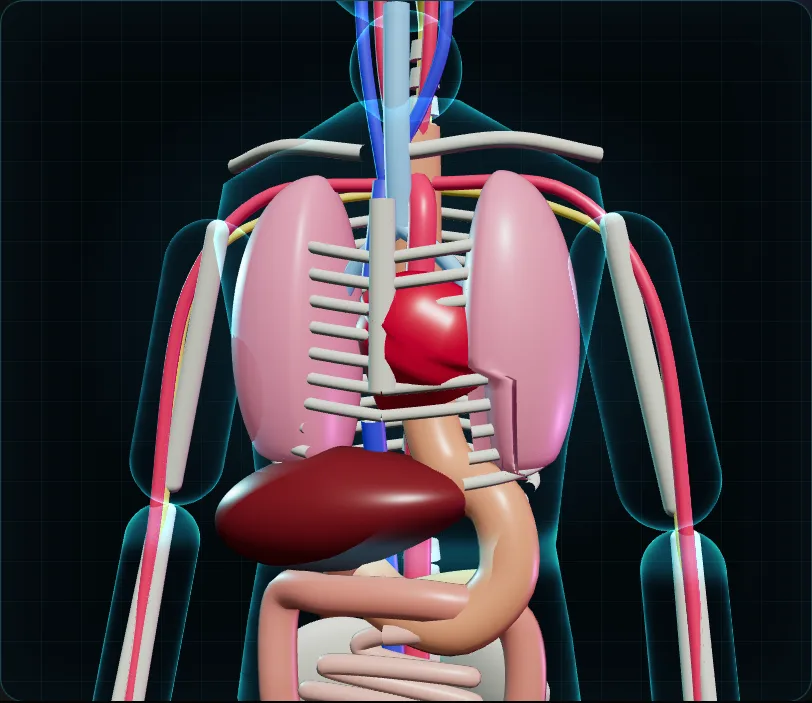
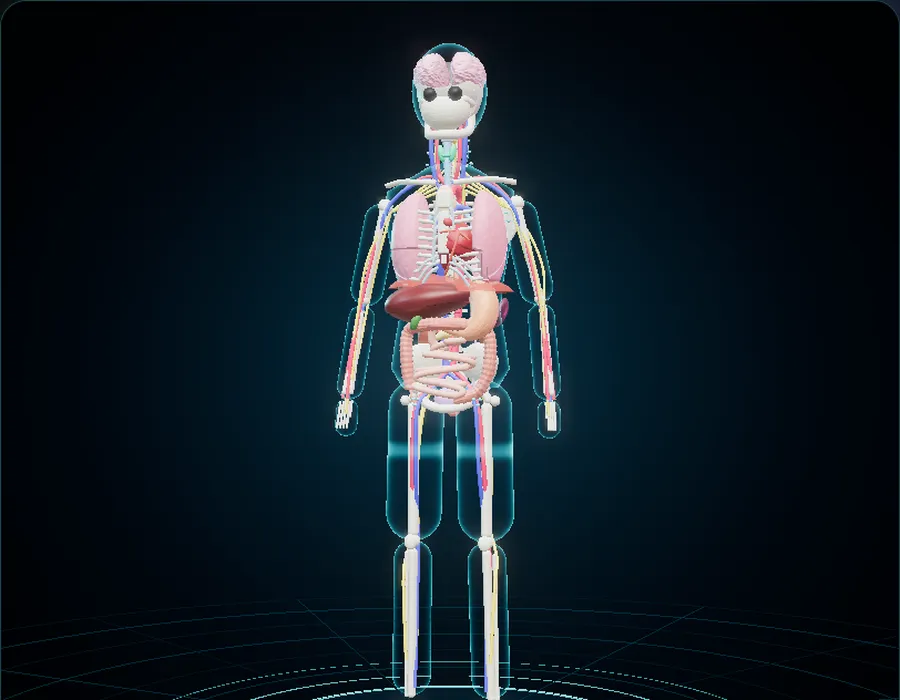
3D model previews for every sub-site, and camera moves timed by the clock
Each sub-site homepage's 3D card now shows its own model. Fly-to (zoom
buttons, double-click, focus) runs on wall-clock time, so slower devices reach
the target instead of stalling partway.

Claude-Session: https://claude.ai/code/session_01AmhgVexRWAuqiUPjDozXmm

diff --git a/kit/models/viewer.js b/kit/models/viewer.js
@@ -414,7 +414,7 @@ export async function mountModel(root, siteName, model) {
 
   // ---------- camera ----------
   let tween = null;
-  function flyTo(pos, target) { tween = { from: camera.position.clone(), to: pos, tFrom: controls.target.clone(), tTo: target, t: 0 }; }
+  function flyTo(pos, target) { tween = { from: camera.position.clone(), to: pos, tFrom: controls.target.clone(), tTo: target, t: 0, start: performance.now() }; }
   function focus(id) {
     const p = parts[id], at = p.centre.clone().add(p.centre.clone().sub(centre).multiplyScalar(state.explode * 0.9));
     const d = Math.max(cam.min * 3, p.size * 1.9), dir = camera.position.clone().sub(controls.target).normalize();
@@ -508,7 +508,7 @@ export async function mountModel(root, siteName, model) {
       p.objs.forEach((m) => { if (!m.userData.moves) m.position.copy(m.userData.home).add(off); });   // parts the model animates itself are left alone
     }
     if (tween) {
-      tween.t = Math.min(1, tween.t + dt * 1.6);
+      tween.t = Math.min(1, (performance.now() - tween.start) / 650);   // by the clock, so slow devices still arrive on time
       const e = tween.t < 0.5 ? 4 * tween.t ** 3 : 1 - (-2 * tween.t + 2) ** 3 / 2;
       camera.position.lerpVectors(tween.from, tween.to, e); controls.target.lerpVectors(tween.tFrom, tween.tTo, e);
       if (tween.t >= 1) tween = null;

diff --git a/sw.js b/sw.js
@@ -1,6 +1,6 @@
 // Gradify service worker: lets the site open offline.
 // Network first, so a new deploy shows straight away; the cache is the fallback.
-const CACHE = "gradify-v27";
+const CACHE = "gradify-v28";
 const SHELL = [
   "./", "index.html", "app.html", "manifest.webmanifest", "gradify.config.js",
   // homepage
